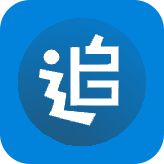
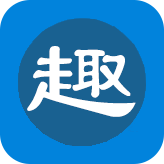
xiaoshuoapp

diff --git a/src/components/Home.vue b/src/components/Home.vue
@@ -79,26 +79,15 @@
 }
 
 .img{
-	  width: 2.72rem;
-    height: .61333rem;
+	  width: 3rem;
+    height: .7rem;
     position: absolute;
     top: 50%;
     left: 50%;
     margin-top: -.30667rem;
     margin-left: -1.36rem;
-    background: url(../../public/logofont.png) no-repeat;
+    background: url(../../public/logofont1.png) no-repeat;
     background-size: cover;
-}
-
-.logo{
-	position: absolute;
-  top: 17%;
-  left: 0;
-  left: 0.40rem;
-	width: 1rem;
-  height: 1rem;
-	background: url(../../public/zhuishushenqi.png) no-repeat;
-	background-size: cover;
 }
 
 .nav{

diff --git a/public/index.html b/public/index.html
@@ -5,8 +5,8 @@
     <meta http-equiv="X-UA-Compatible" content="IE=edge">
     <meta name="viewport" content="width=device-width,initial-scale=1,minimum-scale=1,maximum-scale=1,user-scalable=no" />
     <!--<meta name="viewport" content="width=device-width,initial-scale=1.0">-->
-    <link rel="icon" href="<%= BASE_URL %>favicon-2019041611404441.ico">
-    <title>追书神器</title>
+    <link rel="stylesheet" href="./favicon.ico">
+    <title>趣味小说</title>
   </head>
   <body>
     <noscript>

diff --git a/src/components/Bottom.vue b/src/components/Bottom.vue
@@ -16,10 +16,6 @@
 	    
 	    <div class="c-info">
 	    	<div class="field">
-	    		<div class="fieldicon">
-	    			<img src="../../public/recordIcon.png"/>
-	    		</div>
-	    		
 	    		<p>沪公网安备 31011202006103号</p>
 	    	</div>
 	    	

diff --git a/README.md b/README.md
@@ -1,2 +1,29 @@
-# xiaoshuoapp
-仿追书神器app
+# zhuishushenqi
+
+## Project setup
+```
+npm install
+```
+
+### Compiles and hot-reloads for development
+```
+npm run serve
+```
+
+### Compiles and minifies for production
+```
+npm run build
+```
+
+### Run your tests
+```
+npm run test
+```
+
+### Lints and fixes files
+```
+npm run lint
+```
+
+### Customize configuration
+See [Configuration Reference](https://cli.vuejs.org/config/).
